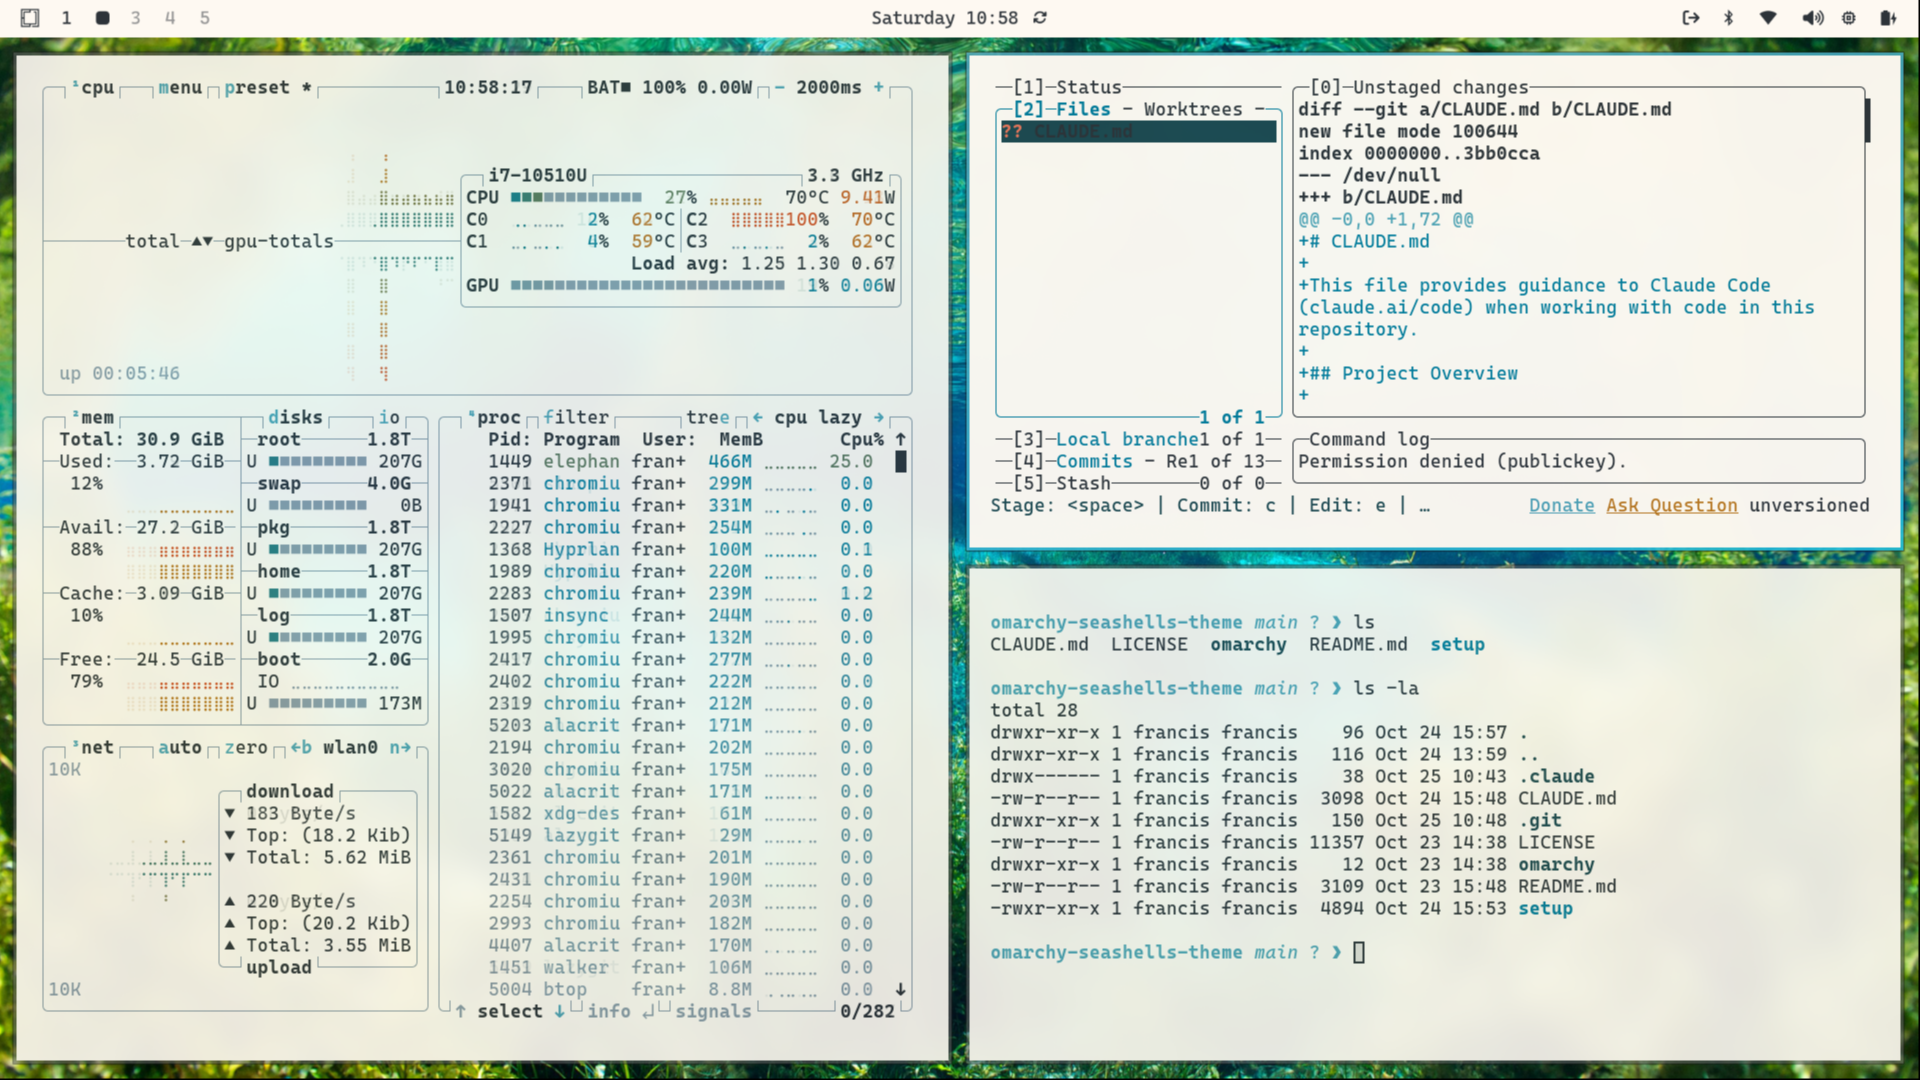
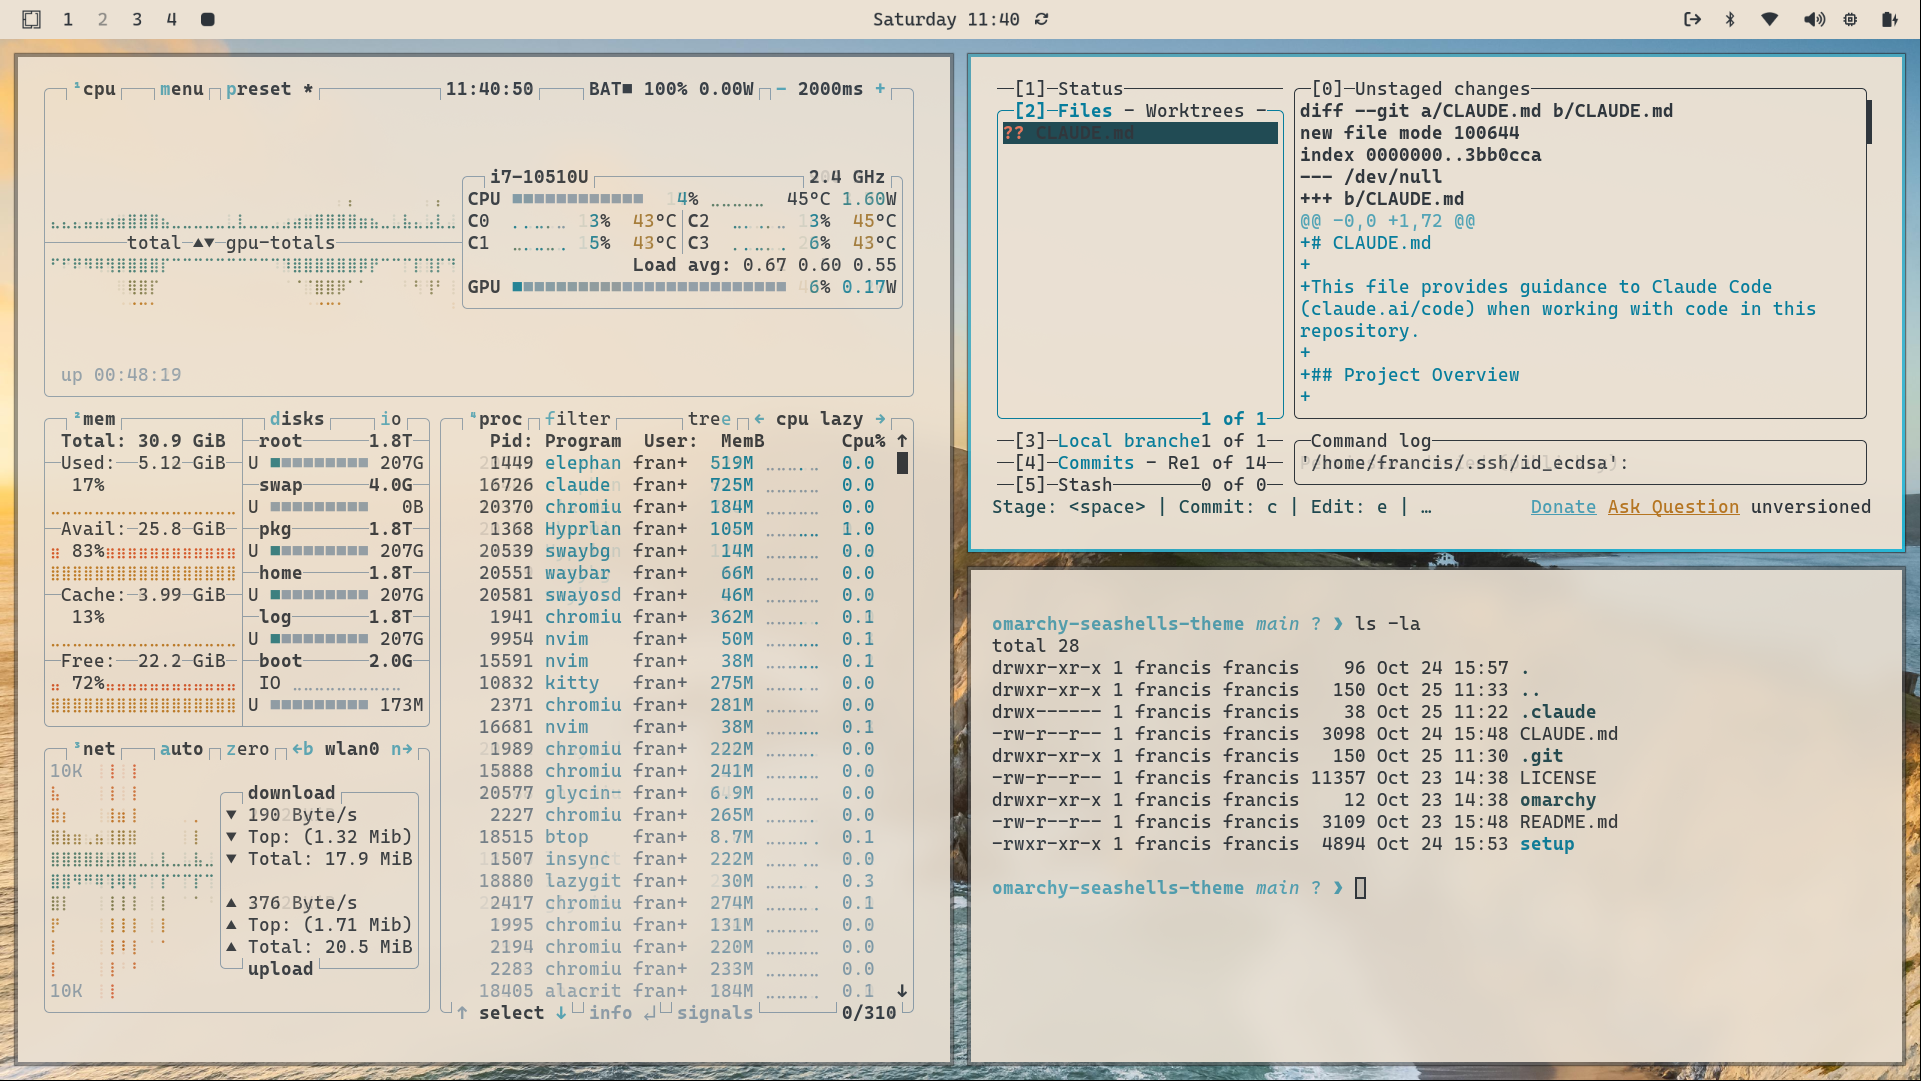
seashells light theme update

diff --git a/omarchy/themes/seashells-light/walker.css b/omarchy/themes/seashells-light/walker.css
@@ -1,6 +1,6 @@
 @define-color selected-text #50a3b5;
 @define-color text #2d3339;
-@define-color base #fef9f2;
+@define-color base #ebe1d3;
 @define-color border #50a3b5;
 @define-color foreground #2d3339;
-@define-color background #fef9f2;
+@define-color background #ebe1d3;

diff --git a/omarchy/themes/seashells-light/swayosd.css b/omarchy/themes/seashells-light/swayosd.css
@@ -1,4 +1,4 @@
-@define-color background-color #fef9f2;
+@define-color background-color #ebe1d3;
 @define-color border-color #50a3b5;
 @define-color label #2d3339;
 @define-color image #2d3339;

diff --git a/omarchy/themes/seashells-light/waybar.css b/omarchy/themes/seashells-light/waybar.css
@@ -1,2 +1,2 @@
 @define-color foreground #2d3339;
-@define-color background #fef9f2;
+@define-color background #ebe1d3;
